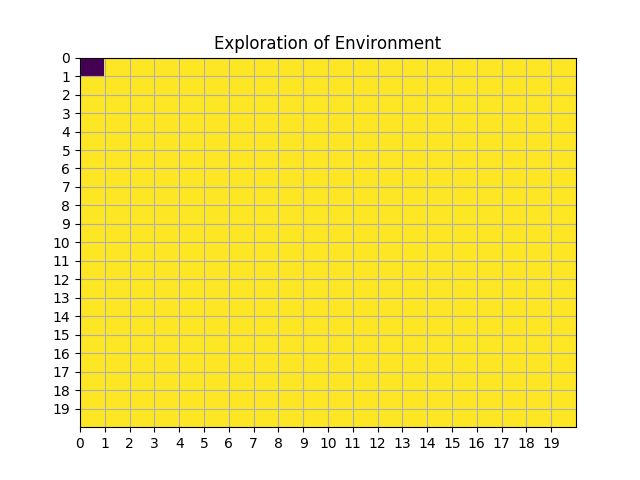
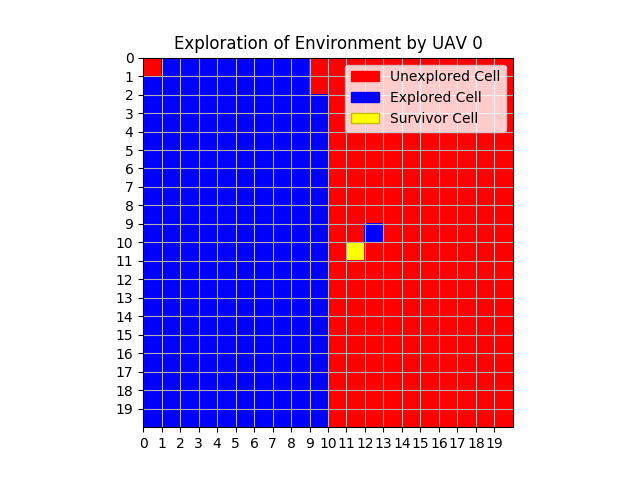
Finally figured out the legend issue here by using ListedColors to select individual colors and referencing each of the colors in the legend. Attached the latest .pngs as well with this commit.

diff --git a/quad/include/quad/plotter/mapPlotter.py b/quad/include/quad/plotter/mapPlotter.py
@@ -1,18 +1,19 @@
-'''This script is written to plot the weightage map created as a density color mesh.
-While running the code, the drone does not execute the entire weightmap. To ensure that the weights are being generated correctly, we've
-built this function to analyze the weightage map generated as a matplotlib colormesh.
+'''This script is written to plot the exploration map that's being generated in real-time by the agents exploring the environment. The 2D map being generated 
+is part of the weighted_map structure which has a int member called exploration which gets cycled and dumped to the disc using the exploration_dumper() function,
+part of the weight.xpp package.
 
-Similar to the rest of the modules written for this project, this densityplotter function is agnostic to the dimensions of the environment.
-Tests are due to substantiate this claim. Will be updating a section in the README of repository dedicated to this.
+This script is a fork of the densityPlotter.py, hence the similarity of the structure/comments.
 
 -Sarthak
-(20/12/2019)'''
+(09/02/2020)'''
 
 import matplotlib.pyplot as plt
 import csv
 import numpy as np
+from matplotlib import colors
+from matplotlib.patches import Patch
 
-'''Filename pointing to the weightMap csv file'''
+'''Filename pointing to the explorationMap csv file'''
 weight_files = ['explorationMap_0.csv', 'explorationMap_1.csv']
 
 for weight_file in weight_files:
@@ -53,13 +54,22 @@ for weight_file in weight_files:
                 if by_element is not '':
                     density[y_element, x_element] = by_element
 
+    '''Here, we create a custom legend to label the 3 types of cell in the colormap being plotted below.'''
+    legend_elements = [Patch(facecolor='red', edgecolor='r',
+                         label='Unexplored Cell'),
+                   Patch(facecolor='blue', edgecolor='b',
+                         label='Explored Cell'),
+                   Patch(facecolor='yellow', edgecolor='y',
+                         label='Survivor Cell')]
+
+    '''Generating the subplot to extract the ax and the fig elements of the plot.'''
     fig, ax = plt.subplots()
 
-    '''Importing a colormap here (Jet!) and reversing it to better infer the priority of the waypoints.'''
-    colormap = plt.cm.get_cmap('viridis')
+    '''Generating a custom colormap of 3 colors to plot the exploration status of the different cells.'''
+    cmap = colors.ListedColormap(['red', 'blue', 'yellow'])
 
     '''Plotting the weights here using matplotlib's colormesh functionality. Setting the colormap to 'jet' to ensure better contrast between smaller magnitudes.'''
-    plt.pcolormesh(density, cmap=colormap)
+    plt.pcolormesh(density, cmap = cmap)
 
     '''Flipping the coordinates here to ensure that ease of understanding between plots and the Gazebo environment.'''
     plt.ylim(column, 0)
@@ -67,12 +77,16 @@ for weight_file in weight_files:
     '''Adding a grid to improve readability of the map and anchors the colors generated as well.'''
     plt.grid(True)
 
+    ''''''
     if weight_file == 'explorationMap_0.csv' or 'explorationMap_1.csv':
-        plt.title('Exploration of Environment')
+        plt.title('Exploration of Environment by UAV ' + weight_file.split('_')[1][0])
 
     '''Adding labels to the X and the Y axis to improve the readability of the maps here'''
     plt.xticks(row_array)
     plt.yticks(column_array)
+    
+    ax.set_aspect('equal')
+    ax.legend(handles = legend_elements)
 
     '''Splitting the filename at the extension, extracting only the first part and appending a png to it to save it to disc.'''
     plt.savefig('/home/sarthak/catkin_ws/src/assets/' +
